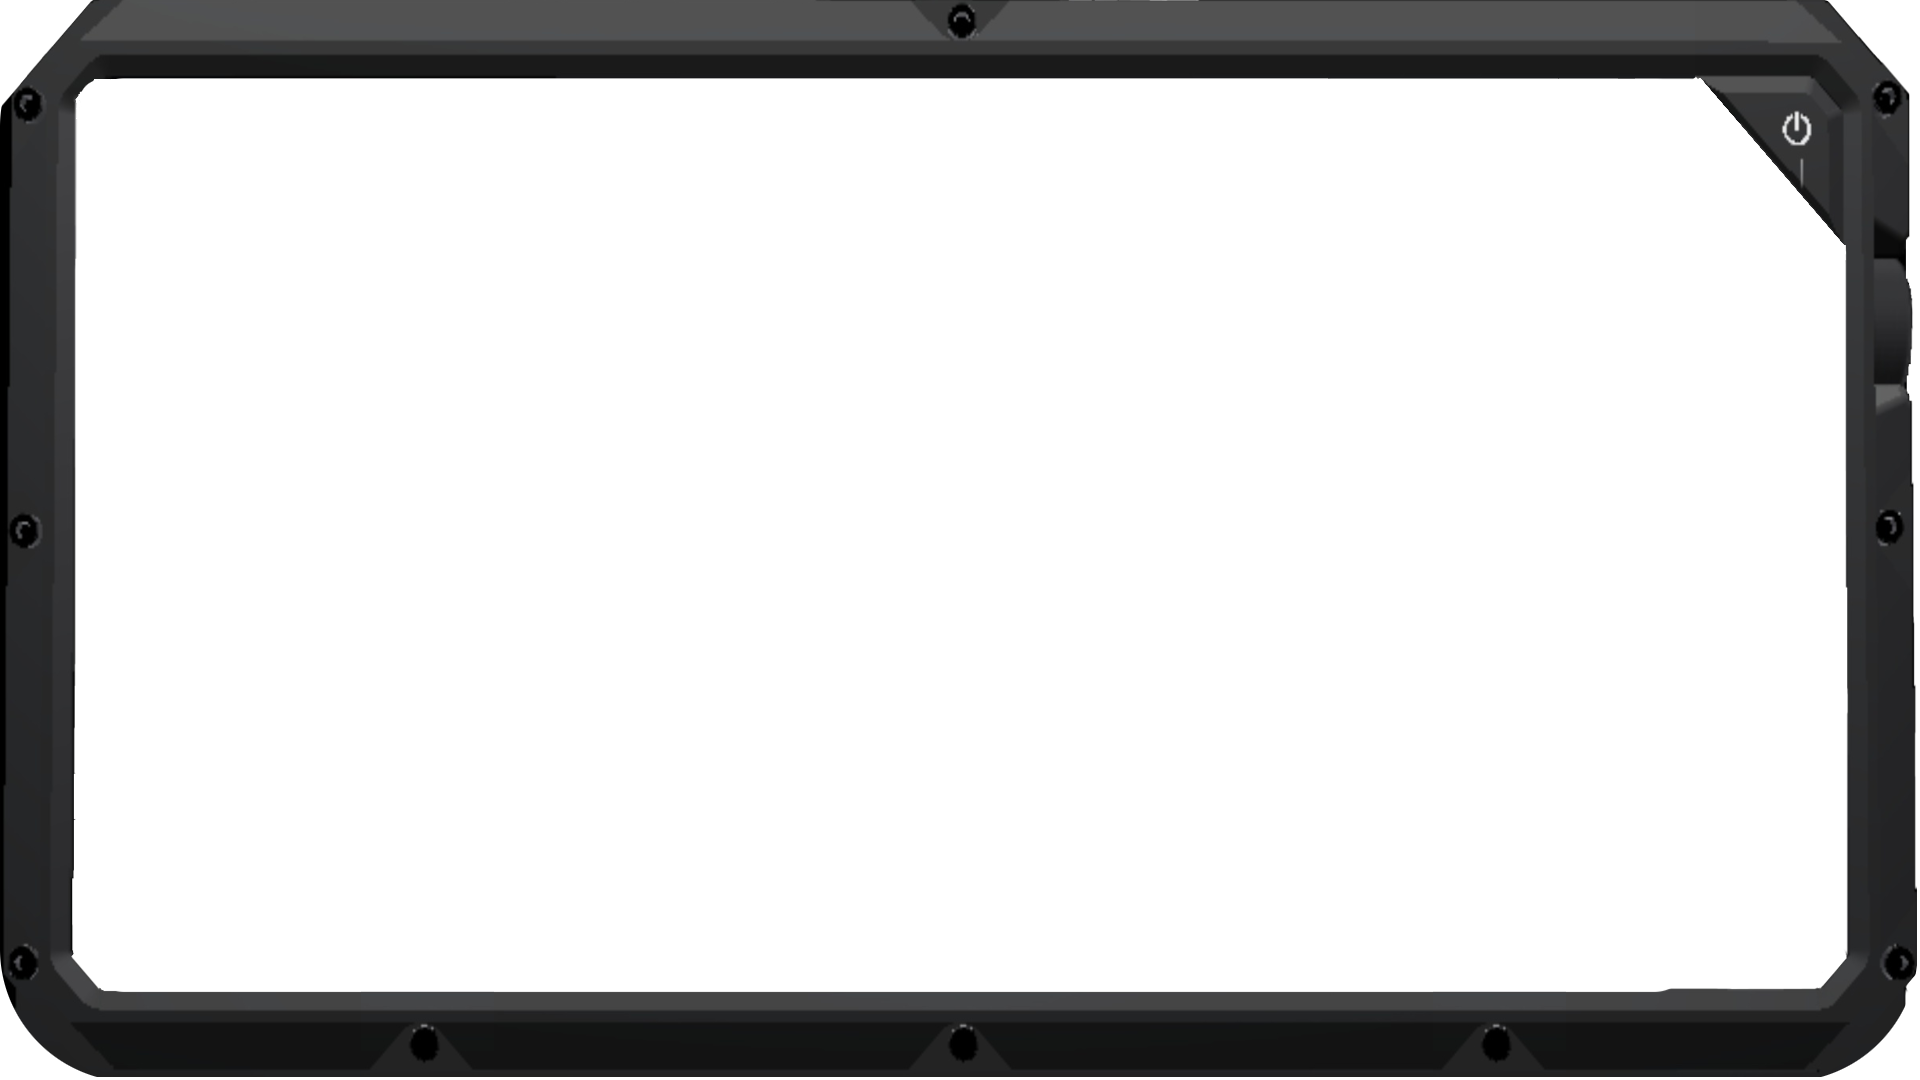
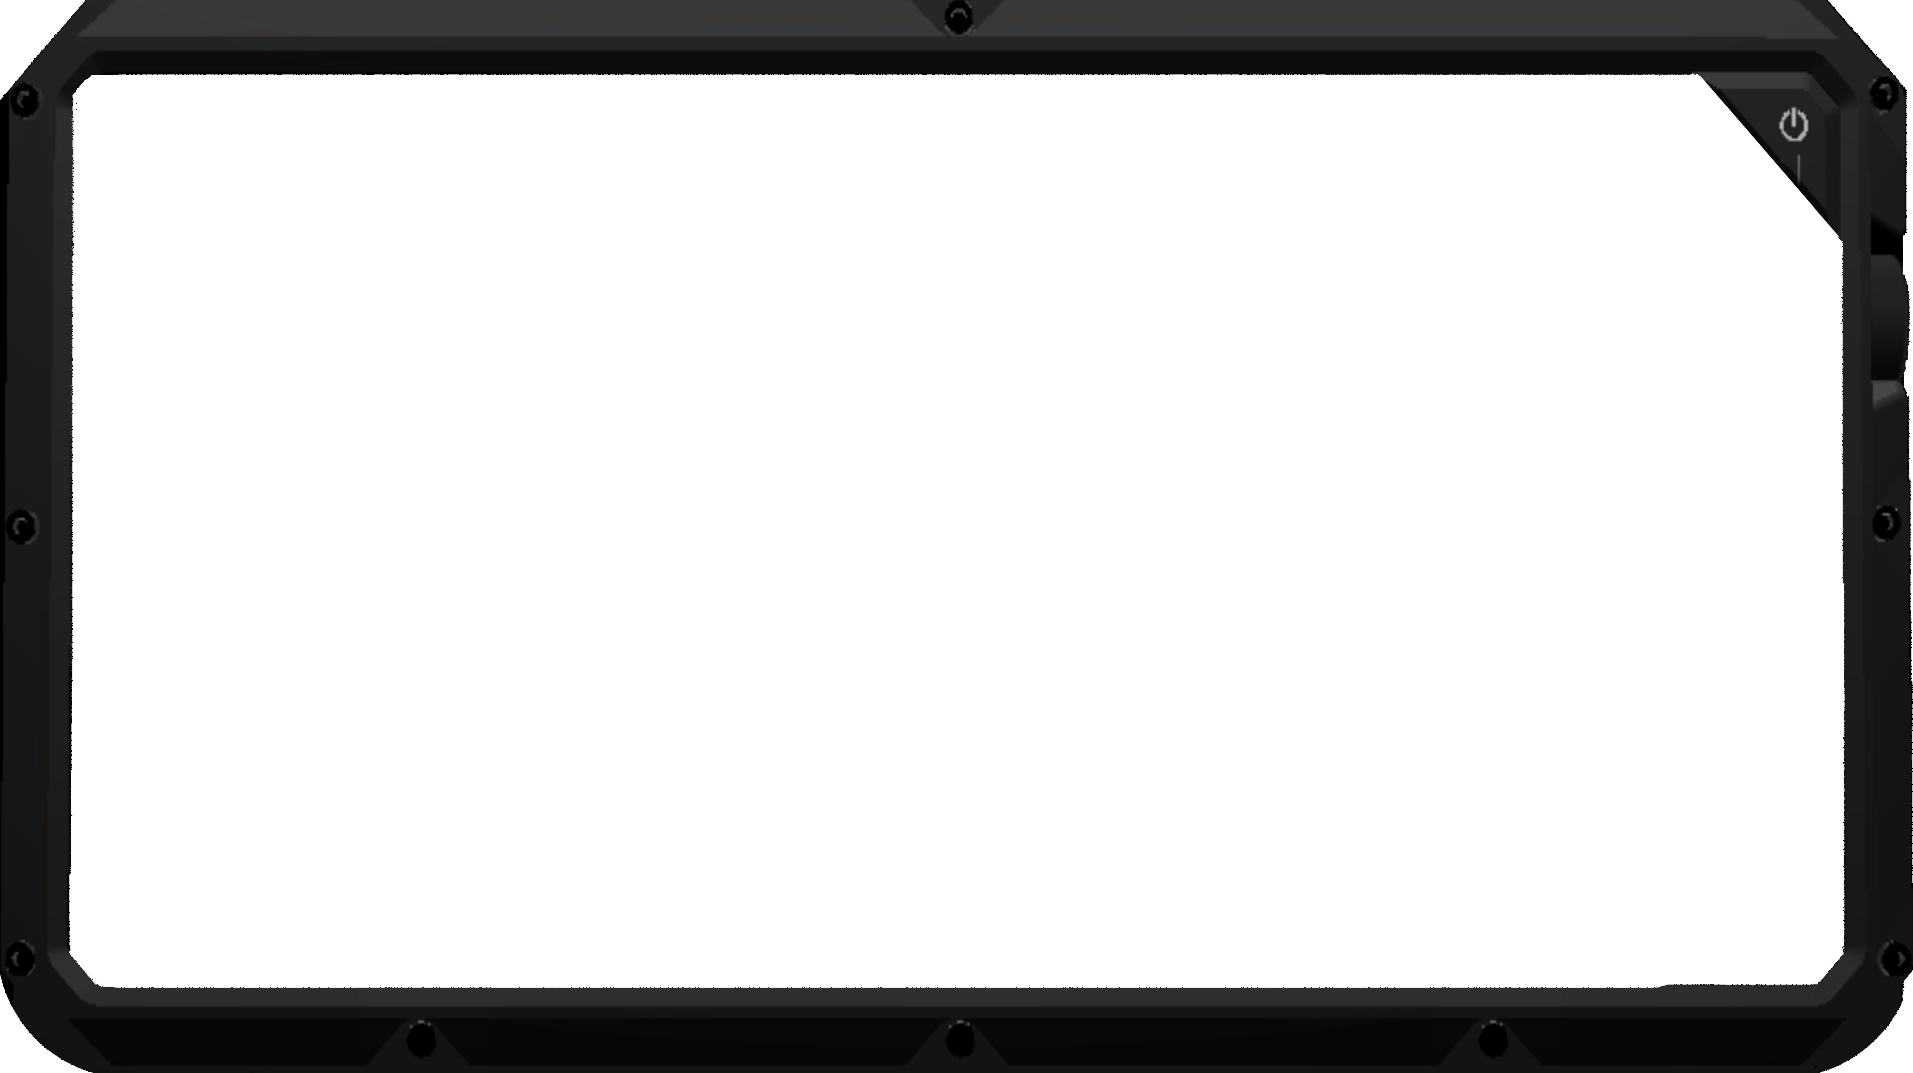
🟩 0319: 3JS.1

diff --git a/src/static/css/general.css b/src/static/css/general.css
@@ -31,11 +31,15 @@ body {
 /* Canvas Container - Uses flexbox for perfect centering and max scaling */
 #hx-canvas {
     position: fixed;
-    top: 0;
-    left: 0;
-    width: 100vw;
-    height: 100vh;
+    /* CENTER FIX: Use top/left 50% with transform */
+    top: 50%;
+    left: 50%;
+    transform: translate(-50%, -50%); /* This is the key for centering */
 
+    width: min(1920px, 100vw, calc(100vh * 16 / 9));
+    height: min(1080px, 100vh, calc(100vw * 9 / 16));
+    max-width: 1920px;
+    max-height: 1080px;
     /* Center child canvas */
     display: flex;
     justify-content: center;

diff --git a/src/static/js/three-init.js b/src/static/js/three-init.js
@@ -36,7 +36,7 @@ document.addEventListener("DOMContentLoaded", function () {
   const scene = new THREE.Scene();
 
   // Set background color (visible through transparent frame)
-  scene.background = new THREE.Color(0x111122); // Dark blue
+  scene.background = new THREE.Color(0x1a1a1a); // Dark blue
 
   // 5. Add test objects (visible through frame)
 
